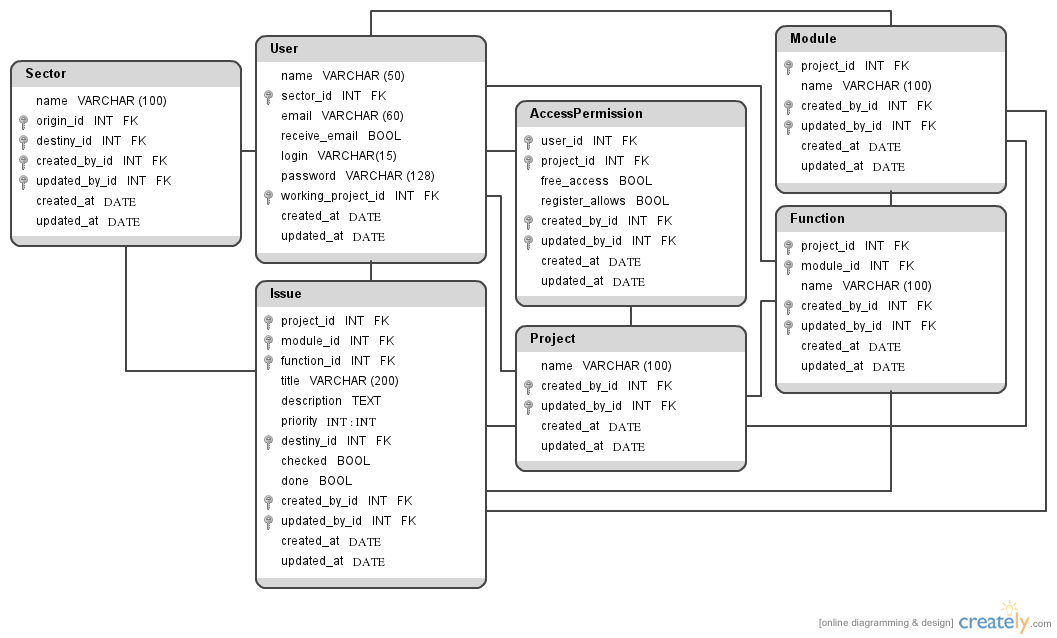
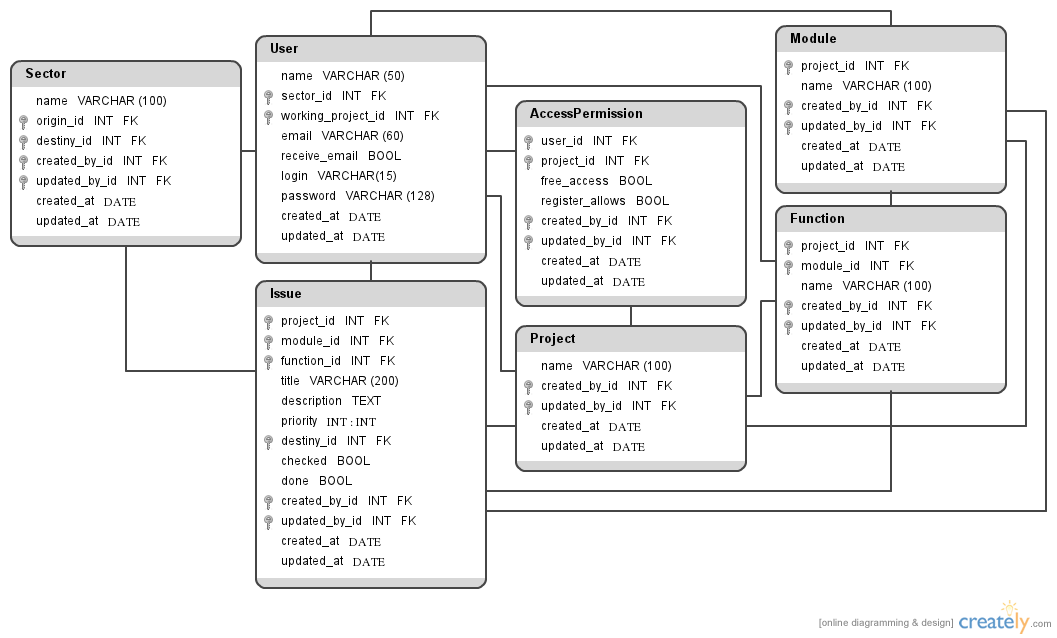
developing user model test

Changed region(s): [[0.2498, 0.1787, 0.4059, 0.3276]]

diff --git a/spec/models/user_spec.rb b/spec/models/user_spec.rb
@@ -1,0 +1,40 @@
+# encoding: UTF-8
+
+require 'spec_helper'
+
+describe User, user_model: true do
+  describe "name" do
+    it { should have_valid(:name).when("Adriano", "José") }
+    it { should_not have_valid(:name).when(nil, "a" * 51) }
+  end
+  
+  describe "sector" do
+    it { should have_valid(:sector).when() }
+    it { should_not have_valid(:sector).when() }
+  end
+  
+  describe "working project" do
+    it { should have_valid(:working_project).when() }
+    it { should_not have_valid(:working_project).when() }
+  end
+  
+  describe "email" do
+    it { should have_valid(:email).when() }
+    it { should_not have_valid(:email).when() }
+  end
+  
+  describe "receive email" do
+    it { should have_valid(:receive_email).when() }
+    it { should_not have_valid(:receive_email).when() }
+  end
+  
+  describe "login" do
+    it { should have_valid(:login).when() }
+    it { should_not have_valid(:login).when() }
+  end
+  
+  describe "password" do
+    it { should have_valid(:password).when() }
+    it { should_not have_valid(:password).when() }
+  end
+end

diff --git a/db/migrate/20120201162908_create_users.rb b/db/migrate/20120201162908_create_users.rb
@@ -1,0 +1,15 @@
+class CreateUsers < ActiveRecord::Migration
+  def change
+    create_table :users do |t|
+      t.string      :name,          null: false, limit: 50
+      t.references  :sector
+      t.integer     :working_project_id
+      t.string      :email,                      limit: 60
+      t.boolean     :receive_email, null: false
+      t.string      :login,         null: false, limit: 15
+      t.string      :password,      null: false, limit: 128
+
+      t.timestamps
+    end
+  end
+end

diff --git a/spec/factories/users.rb b/spec/factories/users.rb
@@ -1,0 +1,12 @@
+# Read about factories at http://github.com/thoughtbot/factory_girl
+
+FactoryGirl.define do
+  factory :user do
+    factory :user_adriano do
+      sequence(:name) { |n| "Adriano #{n}" }
+      receive_email false
+      sequence(:login) { |n| "adriano_#{n}" }
+      password "123"
+    end
+  end
+end

diff --git a/app/models/user.rb b/app/models/user.rb
@@ -1,0 +1,2 @@
+class User < ActiveRecord::Base
+end
